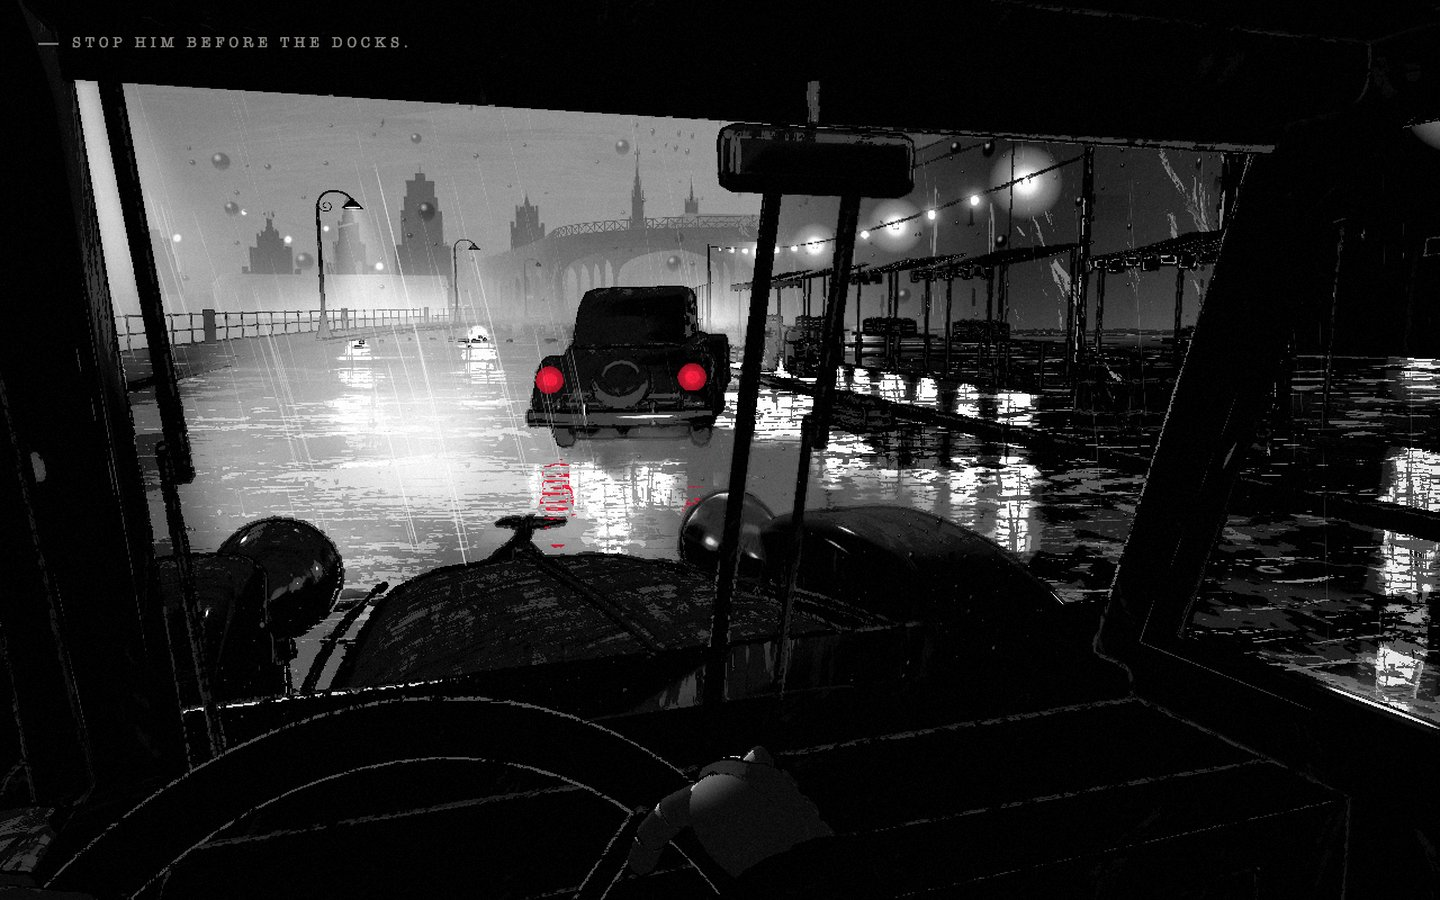
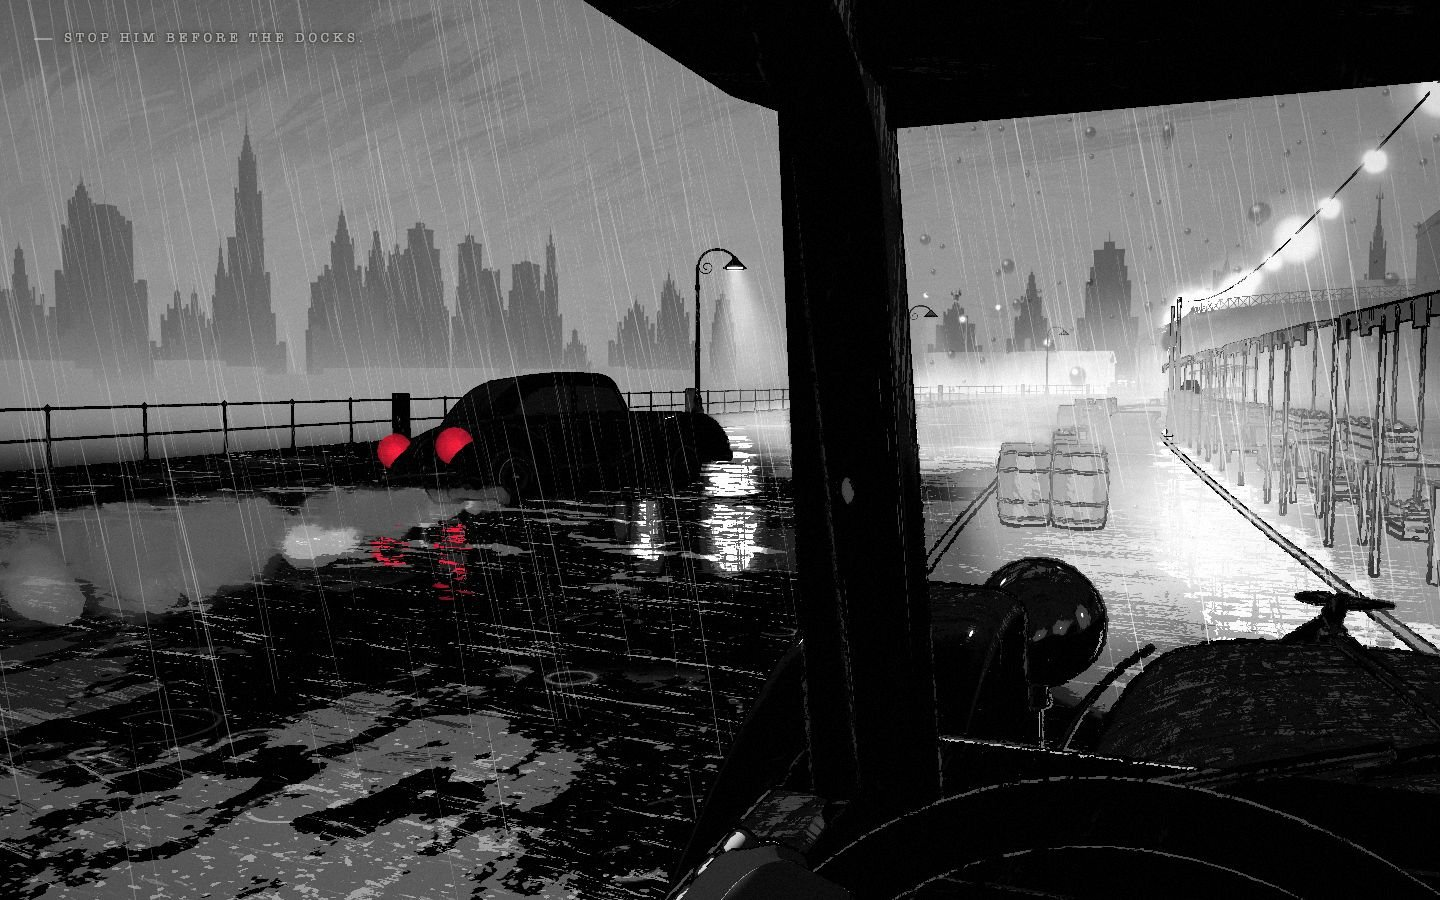
C3 2nd owner: the pier yard's railing, crates, cable drum and bollards are solid (a car went through them); the crates and their cat moved off the line from the stop to the doors; the wake off his tyres only at a middle distance (close by its puffs were balls on the screen); the proof hands back off

diff --git a/src/scenes/tail/chase.js b/src/scenes/tail/chase.js
@@ -104,7 +104,7 @@ export class Chase {
     // goes by; the pier's jumps down off the crates and runs along the shed
     // to the water's edge)
     if (this.phase === 'start') this.cats.push(new Cat(this, { x: PELL_CAT.x, z: PELL_CAT.z, y: PELL_CAT.y, yaw: -Math.PI / 2, near: 9.5, path: [[PELL_CAT.x + 1.6, PELL_CAT.z - 0.4]] }));
-    this.cats.push(new Cat(this, { x: PIER.gate.x - 3, z: PIER.gate.z - 6, y: 2.0, yaw: -Math.PI / 2, near: 12, path: [[140.2, 180], [139.4, 193]] }));
+    this.cats.push(new Cat(this, { x: PIER.gate.x - 2.4, z: PIER.gate.z - 15, y: 2.0, yaw: -Math.PI / 2, near: 12, path: [[139.6, 170], [140.2, 182], [139.4, 193]] }));
     // the damage I bring from the checkpoint shows
     this.showDamage(true);
     this.place = { my, his };
@@ -519,7 +519,10 @@ export class Chase {
     // [2nd owner] the spray off his tyres on the wet: a wake of mist that
     // hangs a moment where he went - round a corner the last of it, lit by
     // the lamps, shows which way he turned (a trace to read)
-    if (!his.frozen && his.speedAbs > 5 && G.fx.dust) {
+    // (not close by: within a dozen metres each puff is a ball as big as a
+    // head on the screen)
+    const gapNow = this.gapNow ?? this.gap();
+    if (!his.frozen && his.speedAbs > 5 && G.fx.dust && gapNow > 13 && gapNow < 60 && this.phase !== 'crash') {
       this.sprayAcc = (this.sprayAcc || 0) + dt * Math.min(30, his.speedAbs * 2);
       while (this.sprayAcc >= 1) {
         this.sprayAcc -= 1;

diff --git a/src/stages/city/parts/landmarks.js b/src/stages/city/parts/landmarks.js
@@ -185,7 +185,9 @@ export default {
       for (let k = 0; k < 6; k++) ir.push(new THREE.TorusGeometry(0.645, 0.032, 5, 26).translate(dx, dy, dz - 0.45 + k * 0.18));
       ir.push(tube([V3(dx + 0.15, dy + 0.62, dz + 0.3), V3(dx + 0.7, dy + 0.45, dz + 0.4), V3(dx + 1.2, 0.06, dz + 0.5), V3(dx + 2.4, 0.04, dz + 0.1), V3(dx + 3.3, 0.04, dz - 0.6)], 0.032, 6, 24));
       for (let k = 0; k < 4; k++) {
-        const cx0 = gx - 3 - (k % 2) * 1.2, cy0 = 0.5 + Math.floor(k / 2) * 1.0, cz0 = PIER.gate.z - 6 - (k % 2) * 0.3;
+        // (by the fence, north of the doors: off the line from where I stop
+        // to the doors, which chapter VII opens at)
+        const cx0 = gx - 2.4 - (k % 2) * 1.2, cy0 = 0.5 + Math.floor(k / 2) * 1.0, cz0 = PIER.gate.z - 15 - (k % 2) * 0.3;
         yd.push(roundedBox(1.1, 1.0, 1.1, 0.04, 1).translate(cx0, cy0, cz0));
         for (const yy of [-0.38, 0.38]) yd.push(new THREE.BoxGeometry(1.15, 0.12, 1.15).translate(cx0, cy0 + yy, cz0));
         for (const [sx, sz] of [[-1, -1], [1, -1], [-1, 1], [1, 1]]) yd.push(new THREE.BoxGeometry(0.11, 0.98, 0.11).translate(cx0 + sx * 0.53, cy0, cz0 + sz * 0.53));

diff --git a/src/stages/city/parts/track.js b/src/stages/city/parts/track.js
@@ -101,6 +101,16 @@ export function makeTrack({ lots, columns, posts }) {
   rect(PIER.gate.x, PIER.shed.x1, PIER.gate.z + PIER.gate.w / 2, Y.z1, 'wall');
   rect(Y.x0, Y.x1, Y.z1, Y.z1 + 1, 'rail');
   rect(Y.x0 - 1, Y.x0, DEPOT_Z, Y.z1, 'wall');
+  // [2nd owner] what stands in the yard is solid too (a car went through
+  // them): the iron railing before the shed's wall north of the doors, the
+  // crates by it, the cable drum, the bollards along the water
+  {
+    const gx = PIER.shed.x0;
+    rect(gx - 0.6, gx, Y.z0, PIER.gate.z - 4.6, 'fence');
+    rect(gx - 4.15, gx - 1.85, PIER.gate.z - 15.85, PIER.gate.z - 14.45, 'wall');
+    rect(gx - 6.9, gx - 5.1, PIER.gate.z + 6.9, PIER.gate.z + 8.1, 'wall');
+    for (let x = Y.x0 + 4; x < Y.x1 - 2; x += 4) addCircle(x, Y.z1 - 0.6, 0.21, 'post');
+  }
   // the el's columns
   for (const c of columns) addCircle(c.x, c.z, c.r, 'column');
   // the lamp posts: they give to a hard blow

diff --git a/src/scenes/tail/bot.js b/src/scenes/tail/bot.js
@@ -196,7 +196,7 @@ export function makeBot(chase, name, { seed = 7, track = null, attempt = 0 } = {
       const pg = B.prog || (B.prog = { t: B.t, x: my.pos.x, z: my.pos.z });
       if (want <= 2) { pg.t = B.t; pg.x = my.pos.x; pg.z = my.pos.z; }
       else if (B.t - pg.t > 3) { if (Math.hypot(my.pos.x - pg.x, my.pos.z - pg.z) < 1.5) B.stuckT = 9; pg.t = B.t; pg.x = my.pos.x; pg.z = my.pos.z; }
-      if (B.stuckT > 1.5) { B.stuckT = 0; B.backT = 1.2; if (chase.phase === 'c') B.pathKey = ''; }
+      if (B.stuckT > 1.5) { B.stuckT = 0; B.backT = 1.6; if (chase.phase === 'c') B.pathKey = ''; }
       const e = want - sp;
       if (e > 0.4) K.W = 1;
       else if (e < -1.2) K.S = 1;
